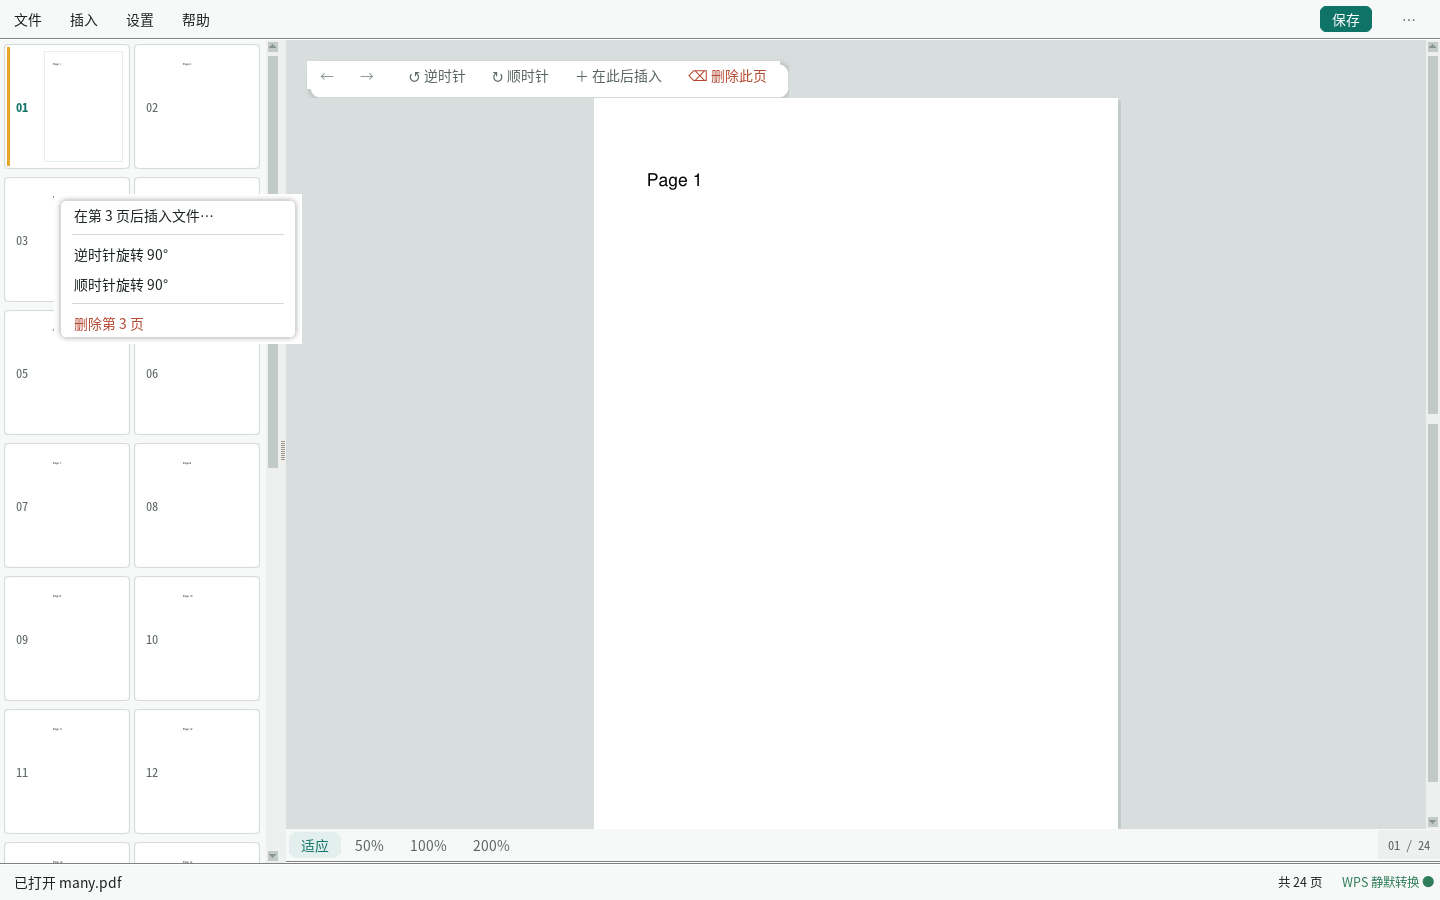
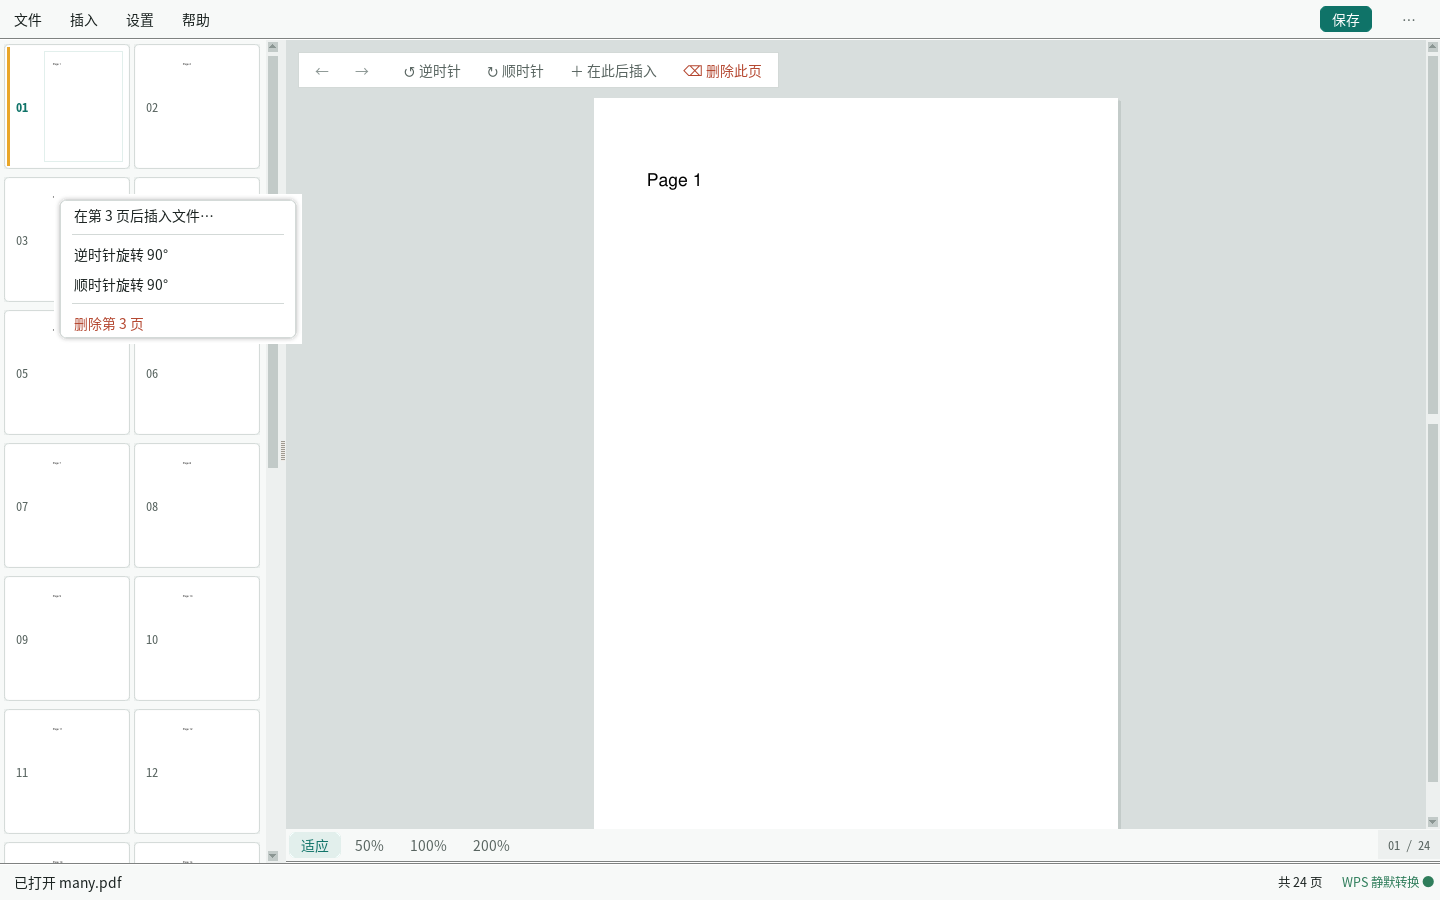
fix(ui): drop the file preview box, square off the float bar, fix sheet clipping
- 文件面板去掉缩略图预览框，右栏改成纯信息列，列表因此更宽
- 底部按钮行不再被切掉：面板高度按屏幕收敛，正文让位、按钮保持完整
- 浮条改成方形描边底衬（圆角底衬和方角按钮错位，看着像叠歪了）
- 修：插入位置面板少导入 PAPER 直接崩（NameError）
- 列表支持滚轮滚动
- 自测加两项：底部按钮完整性、插入位置面板能打开

Changed region(s): [[0.1875, 0.0311, 0.5625, 0.1244]]

diff --git a/gui/file_sheet.py b/gui/file_sheet.py
@@ -104,7 +104,7 @@ class FileSheet(Sheet):
         self.tree.heading('size', text='大小', anchor='e',
                           command=lambda: self._sort_by('size'))
         self.tree.column('sel', width=26, stretch=False, anchor='center')
-        self.tree.column('name', width=200, stretch=False, anchor='w')
+        self.tree.column('name', width=220, stretch=True, anchor='w')
         self.tree.column('type', width=52, stretch=False, anchor='w')
         self.tree.column('mtime', width=84, stretch=False, anchor='w')
         self.tree.column('size', width=62, stretch=False, anchor='e')
@@ -119,26 +119,28 @@ class FileSheet(Sheet):
         middle.columnconfigure(0, weight=1)
         self.tree.bind('<Button-1>', self._on_click)
         self.tree.bind('<Double-1>', self._on_double)
+        # Treeview 默认不吃滚轮，列表长了只能拖滚动条
+        self.tree.bind('<MouseWheel>',
+                       lambda e: self.tree.yview_scroll(
+                           -1 if e.delta > 0 else 1, 'units'))
+        self.tree.bind('<Button-4>',
+                       lambda e: self.tree.yview_scroll(-1, 'units'))
+        self.tree.bind('<Button-5>',
+                       lambda e: self.tree.yview_scroll(1, 'units'))
+        self.loc_tree.bind('<MouseWheel>',
+                           lambda e: self.loc_tree.yview_scroll(
+                               -1 if e.delta > 0 else 1, 'units'))
 
-        # 右：预览
+        # 右：选中文件的详情（不做缩略图预览：插进来的多半是表格，
+        # 预览框既没信息量又把列表挤窄）
         right = ttk.Frame(body, style='Paper.TFrame')
-        right.grid(row=0, column=2, sticky='nse', padx=(12, 0))
-        ttk.Label(right, text='预览', style='Paper.TLabel', font=font('meta'),
+        right.grid(row=0, column=2, sticky='nse', padx=(14, 0))
+        ttk.Label(right, text='详情', style='Paper.TLabel', font=font('meta'),
                   foreground=INK_3).pack(anchor='w', pady=(0, 6))
-        # 预览区：有边框的纸面卡片，空态给明确提示
-        self.preview_frame = tk.Frame(right, bg=PAPER, width=196, height=250,
-                                      highlightbackground=LINE,
-                                      highlightthickness=1)
-        self.preview_frame.pack_propagate(False)
-        self.preview_frame.pack(anchor='w')
-        self.preview_label = tk.Label(self.preview_frame, text='还没有选中文件',
-                                      bg=PAPER, fg=INK_3, font=font('meta'),
-                                      justify='center')
-        self.preview_label.pack(expand=True, fill='both')
-        self.info_label = tk.Label(right, text='在左侧选一个文件\n这里会显示预览',
+        self.info_label = tk.Label(right, text='在左侧选一个文件\n这里会显示它的信息',
                                    bg=PAPER, fg=INK_2, font=font('meta'),
-                                   justify='left', width=20, anchor='w')
-        self.info_label.pack(anchor='w', pady=(10, 0))
+                                   justify='left', width=18, anchor='w')
+        self.info_label.pack(anchor='w')
 
     def _build_footer(self, confirm_text):
         """底部两行：第一行路径，第二行选择与操作。
@@ -321,12 +323,12 @@ class FileSheet(Sheet):
                 self.selected.add(item)
             self._sort_by(self._sort_key)
             self.tree.selection_set(item)
-            self._update_preview(item)
+            self._update_info(item)
             self._update_selection_label()
         else:
             self.selected = {item}
             self.tree.selection_set(item)
-            self._update_preview(item)
+            self._update_info(item)
             self._update_selection_label()
 
     def _on_double(self, event):
@@ -363,31 +365,14 @@ class FileSheet(Sheet):
                 self.selection_label.pack_forget()
         self.confirm_button.configure_state(bool(count))
 
-    def _update_preview(self, path):
+    def _update_info(self, path):
+        """右栏显示选中文件的信息（不渲染缩略图）。"""
         row = self._row(path)
         if row is None:
             return
-        if formats.ext_of(path) == '.pdf':
-            try:
-                import pymupdf
-                from PIL import Image, ImageTk
-                doc = pymupdf.open(path)
-                page = doc.load_page(0)
-                zoom = 150.0 / max(page.rect.width, 1)
-                pix = page.get_pixmap(
-                    matrix=pymupdf.Matrix(zoom, zoom), alpha=False)
-                img = Image.frombytes('RGB', [pix.width, pix.height],
-                                     pix.samples)
-                photo = ImageTk.PhotoImage(img)
-                doc.close()
-                self.preview_label.configure(image=photo, text='')
-                self.preview_label.image = photo
-            except Exception:
-                self.preview_label.configure(image='', text='无法预览')
-        else:
-            self.preview_label.configure(image='', text=row['type'])
         self.info_label.configure(
-            text='{}\n{}\n{}'.format(row['name'], row['mtime'], row['size']))
+            text='{}\n{}\n{}\n{}'.format(row['name'], row['type'],
+                                        row['mtime'], row['size']))
 
     # ------------------------------------------------------------------
     # 确认
@@ -419,7 +404,7 @@ class FileSheet(Sheet):
         self.selected = {path}
         self._sort_by(self._sort_key)
         self._update_selection_label()
-        self._update_preview(path)
+        self._update_info(path)
 
     def _confirm(self):
         paths = sorted(self.selected)

diff --git a/tools/uitest.py b/tools/uitest.py
@@ -194,6 +194,43 @@ def run(app):
         sheet.destroy()
         pump(app, 0.2)
 
+    @step
+    def s8_sheet_footer():
+        """文件面板的底部按钮行必须完整落在窗口里（小屏会被切掉半截）。"""
+        from gui.file_sheet import FileSheet
+        sheet = FileSheet(app.root, mode='insert',
+                          current_path=app.doc.filepath,
+                          confirm_text='插入')
+        sheet._place(app.root)
+        pump(app, 0.3)
+        foot = sheet.button_frame
+        bottom = foot.winfo_rooty() + foot.winfo_height()
+        win_bottom = sheet.winfo_rooty() + sheet.winfo_height()
+        check('文件面板底部按钮没被切掉', bottom <= win_bottom,
+              '按钮底={} 窗口底={}'.format(bottom, win_bottom))
+        shot('08-文件面板底部')
+        sheet.destroy()
+        pump(app, 0.2)
+
+    @step
+    def s9_insert_position_sheet():
+        """插入位置面板：以前这里少导入一个颜色常量会直接崩。"""
+        from gui.insert_sheet import InsertSheet
+        sheet = InsertSheet(app.root, paths=['/tmp/pyw/many.pdf'],
+                            current_page=app.current_page,
+                            page_count=app.doc.page_count)
+        sheet._place(app.root)
+        pump(app, 0.3)
+        check('插入位置面板能打开', sheet.winfo_ismapped(), '打不开')
+        foot = sheet.button_frame
+        bottom = foot.winfo_rooty() + foot.winfo_height()
+        win_bottom = sheet.winfo_rooty() + sheet.winfo_height()
+        check('插入位置面板按钮完整', bottom <= win_bottom,
+              '按钮底={} 窗口底={}'.format(bottom, win_bottom))
+        shot('09-插入位置')
+        sheet.destroy()
+        pump(app, 0.2)
+
     def stepper():
         if not steps:
             print('\n===== 结果 =====')

diff --git a/gui/feedback.py b/gui/feedback.py
@@ -115,7 +115,8 @@ class Sheet(tk.Toplevel):
         self._bg.bind('<Configure>', self._paint_card)
 
         frame = ttk.Frame(self, style='Paper.TFrame', padding=(22, 16))
-        frame.pack(padx=self.MARGIN, pady=self.MARGIN)
+        # fill=both：窗口被压矮时正文让位、底部按钮行保持完整
+        frame.pack(padx=self.MARGIN, pady=self.MARGIN, fill='both', expand=True)
         self._frame = frame
 
         header = ttk.Frame(frame, style='Paper.TFrame')
@@ -161,12 +162,20 @@ class Sheet(tk.Toplevel):
             width = self._frame.winfo_reqwidth() + self.MARGIN * 2
         if height <= 1:
             height = self._frame.winfo_reqheight() + self.MARGIN * 2
+        # 屏幕装不下就压高度：正文（列表）可以让步，按钮行必须留在屏幕上，
+        # 否则小屏上「取消/确定」会被切掉半截。
+        screen_w = self.winfo_screenwidth()
+        screen_h = self.winfo_screenheight()
+        width = min(width, screen_w - 16)
+        height = min(height, screen_h - 16)
         self.geometry('{}x{}'.format(width, height))
         self.update_idletasks()
         x = parent.winfo_rootx() + (parent.winfo_width() - width) // 2
         y = parent.winfo_rooty() + (parent.winfo_height() - height) // 3
         x = max(parent.winfo_rootx() + 8, min(x,
                 parent.winfo_rootx() + parent.winfo_width() - width - 8))
+        # 别让卡片下半截掉到屏幕外
+        y = max(8, min(y, screen_h - height - 8))
         self.geometry('+{}+{}'.format(x, y))
         self.deiconify()
         self.grab_set()

diff --git a/gui/preview_panel.py b/gui/preview_panel.py
@@ -2,7 +2,7 @@ import tkinter as tk
 from tkinter import ttk
 
 from gui.feedback import attach_tooltip
-from gui.widgets import FlatButton, RoundedCard
+from gui.widgets import FlatButton
 from gui.menu import MenuPopover, build
 from gui.theme import (ACCENT, INK_2, LINE, PAPER, STAGE, SURFACE, font)
 
@@ -45,10 +45,16 @@ class PreviewPanel:
     # ------------------------------------------------------------------
 
     def _build_action_row(self):
-        """页面级动作：浮在台面上的圆角工具条（不是第二条窗口栏）。"""
-        self.action_card = RoundedCard(self.frame, radius=10, fill=PAPER,
-                                      outline=LINE, shadow=True, bg=STAGE)
-        bar = self.action_card.body
+        """页面级动作：浮在台面上的工具条（不是第二条窗口栏）。
+
+        工具条是方的：底衬做成圆角卡片会和里面一排方角按钮错位，
+        看着像两层东西叠歪了。底衬改成一像素描边的方条，按钮贴着边排。
+        """
+        self.action_card = tk.Frame(self.frame, bg=PAPER,
+                                    highlightbackground=LINE,
+                                    highlightthickness=1)
+        bar = tk.Frame(self.action_card, bg=PAPER)
+        bar.pack(padx=3, pady=3)
 
         def action(text, command, style='Paper.Segment.TButton', width=None):
             variant = 'danger' if style == 'Paper.Danger.TButton' else 'segment'

diff --git a/gui/insert_sheet.py b/gui/insert_sheet.py
@@ -6,7 +6,7 @@ from tkinter import ttk
 
 from gui.feedback import Sheet
 from gui.widgets import FlatButton
-from gui.theme import INK, INK_2, INK_3, LINE, font
+from gui.theme import INK, INK_2, INK_3, LINE, PAPER, font
 
 
 class InsertSheet(Sheet):
